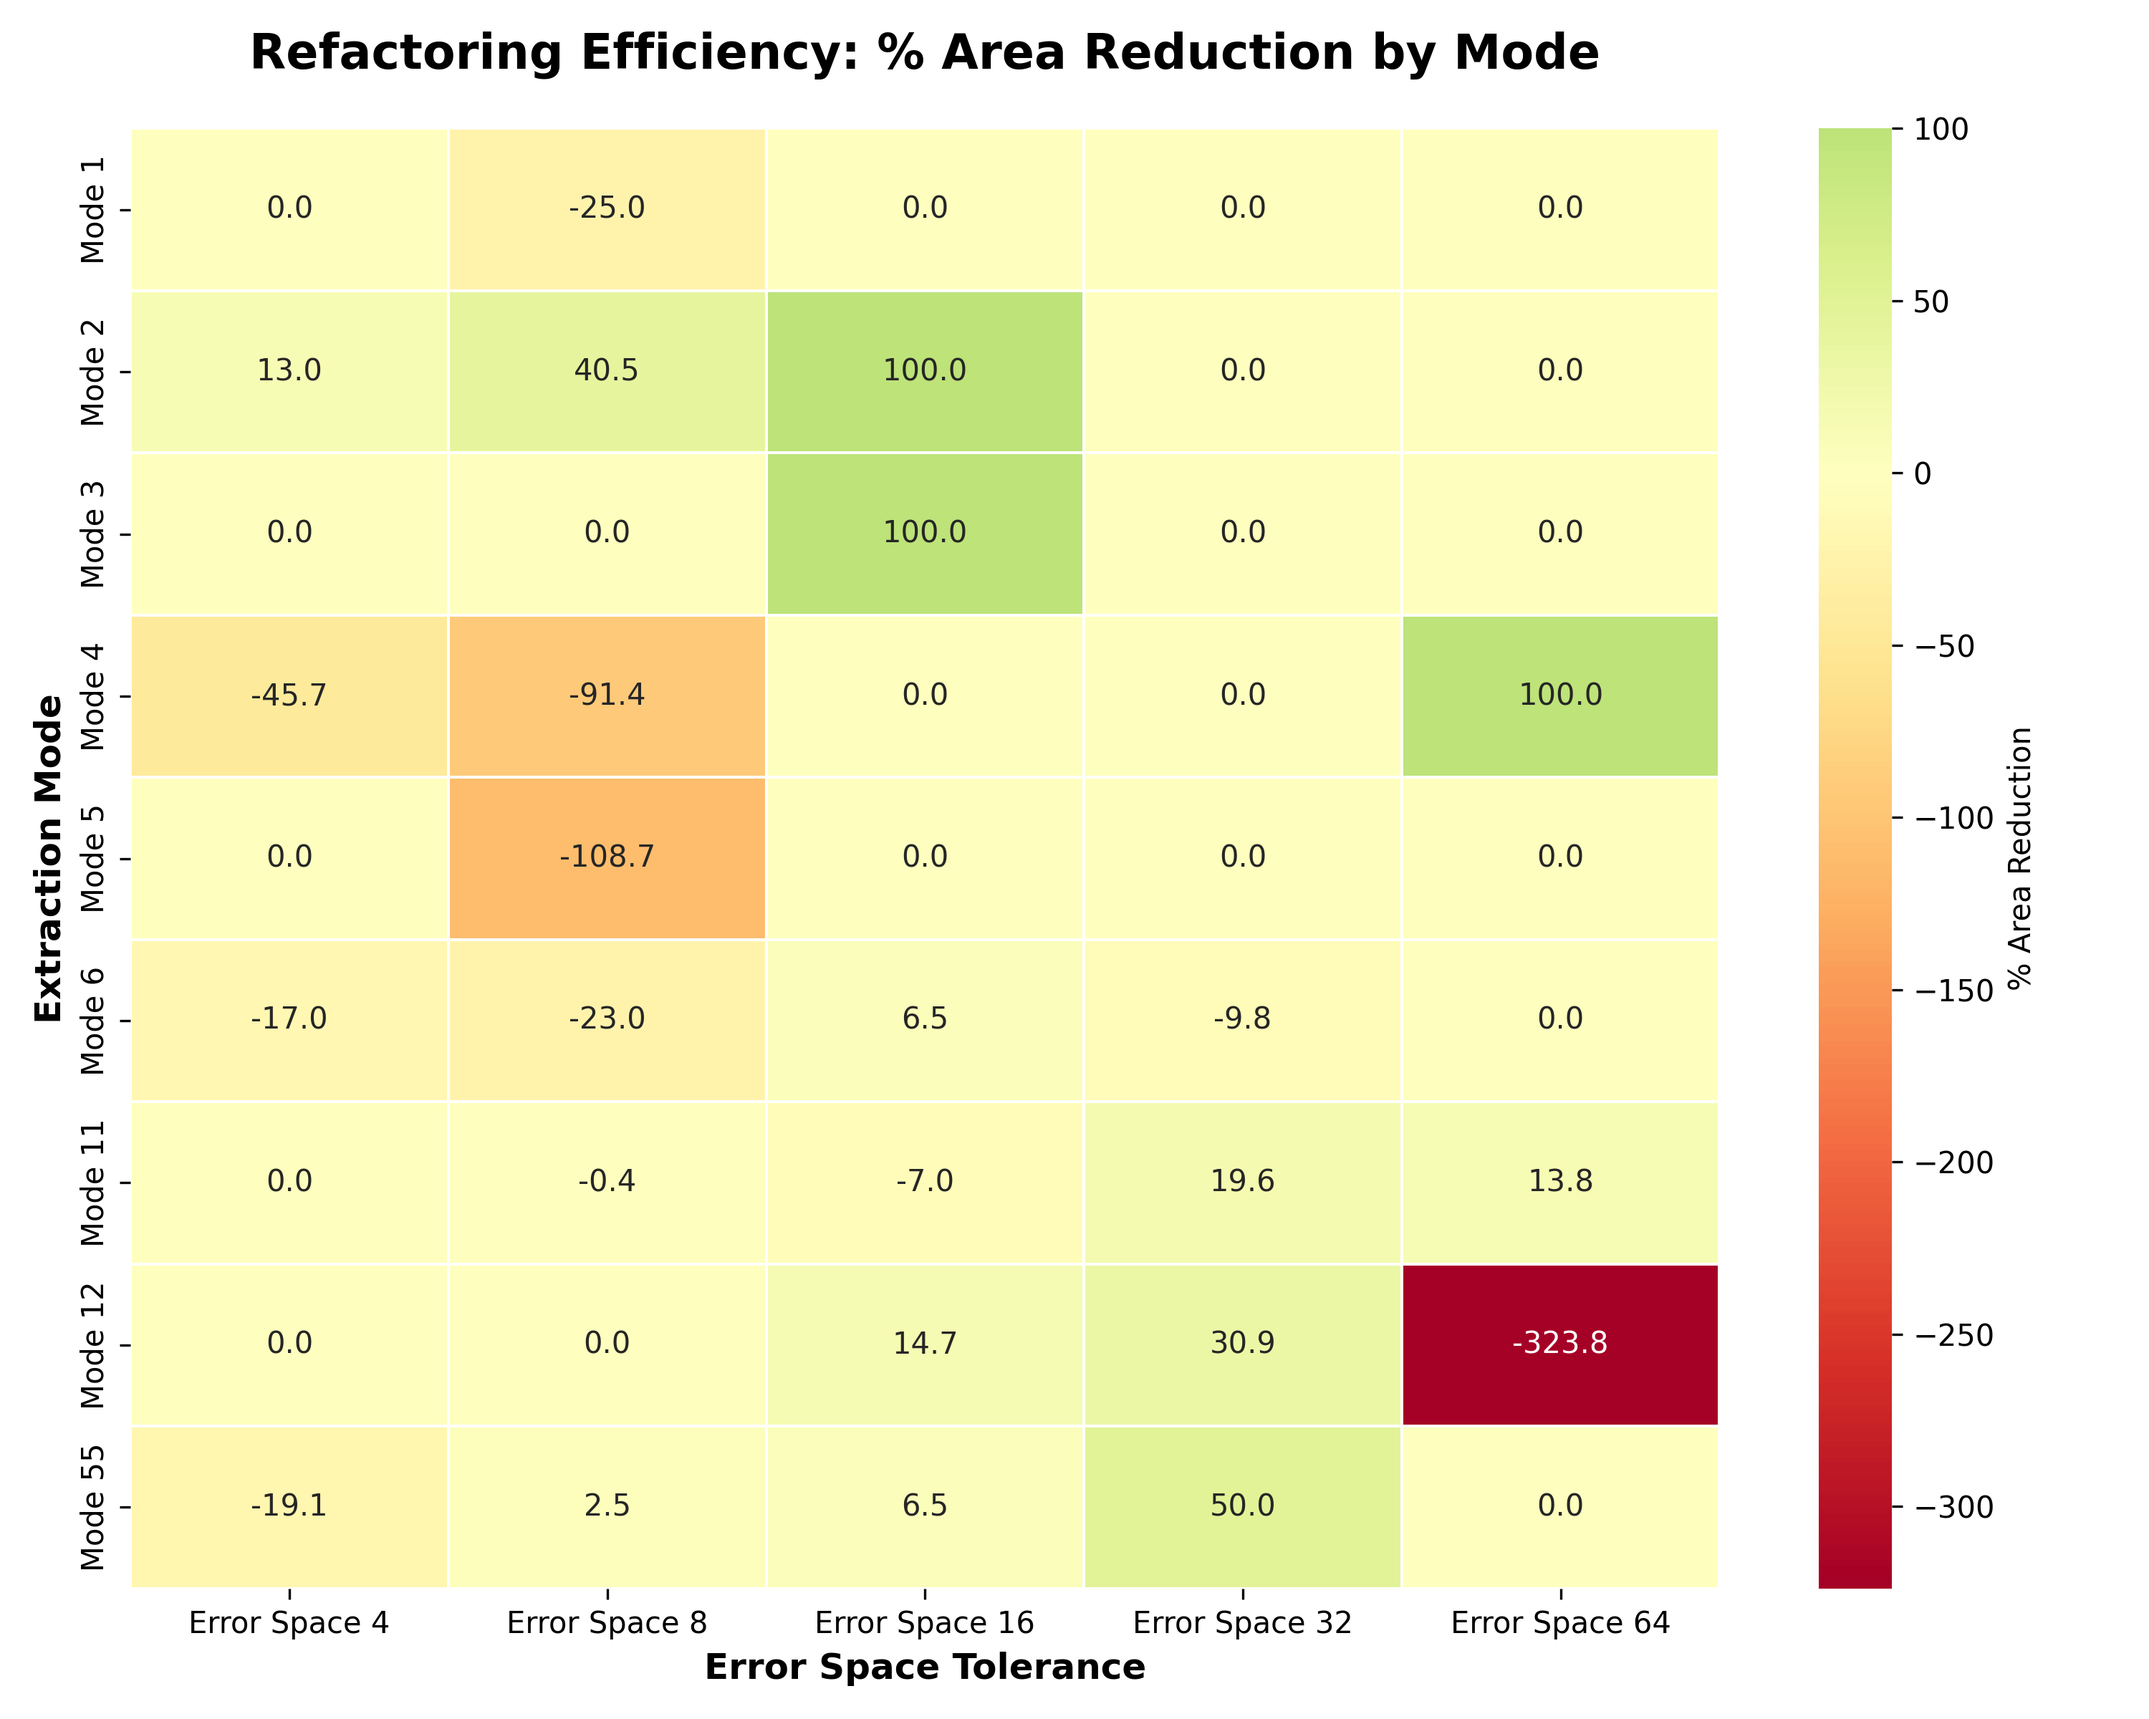
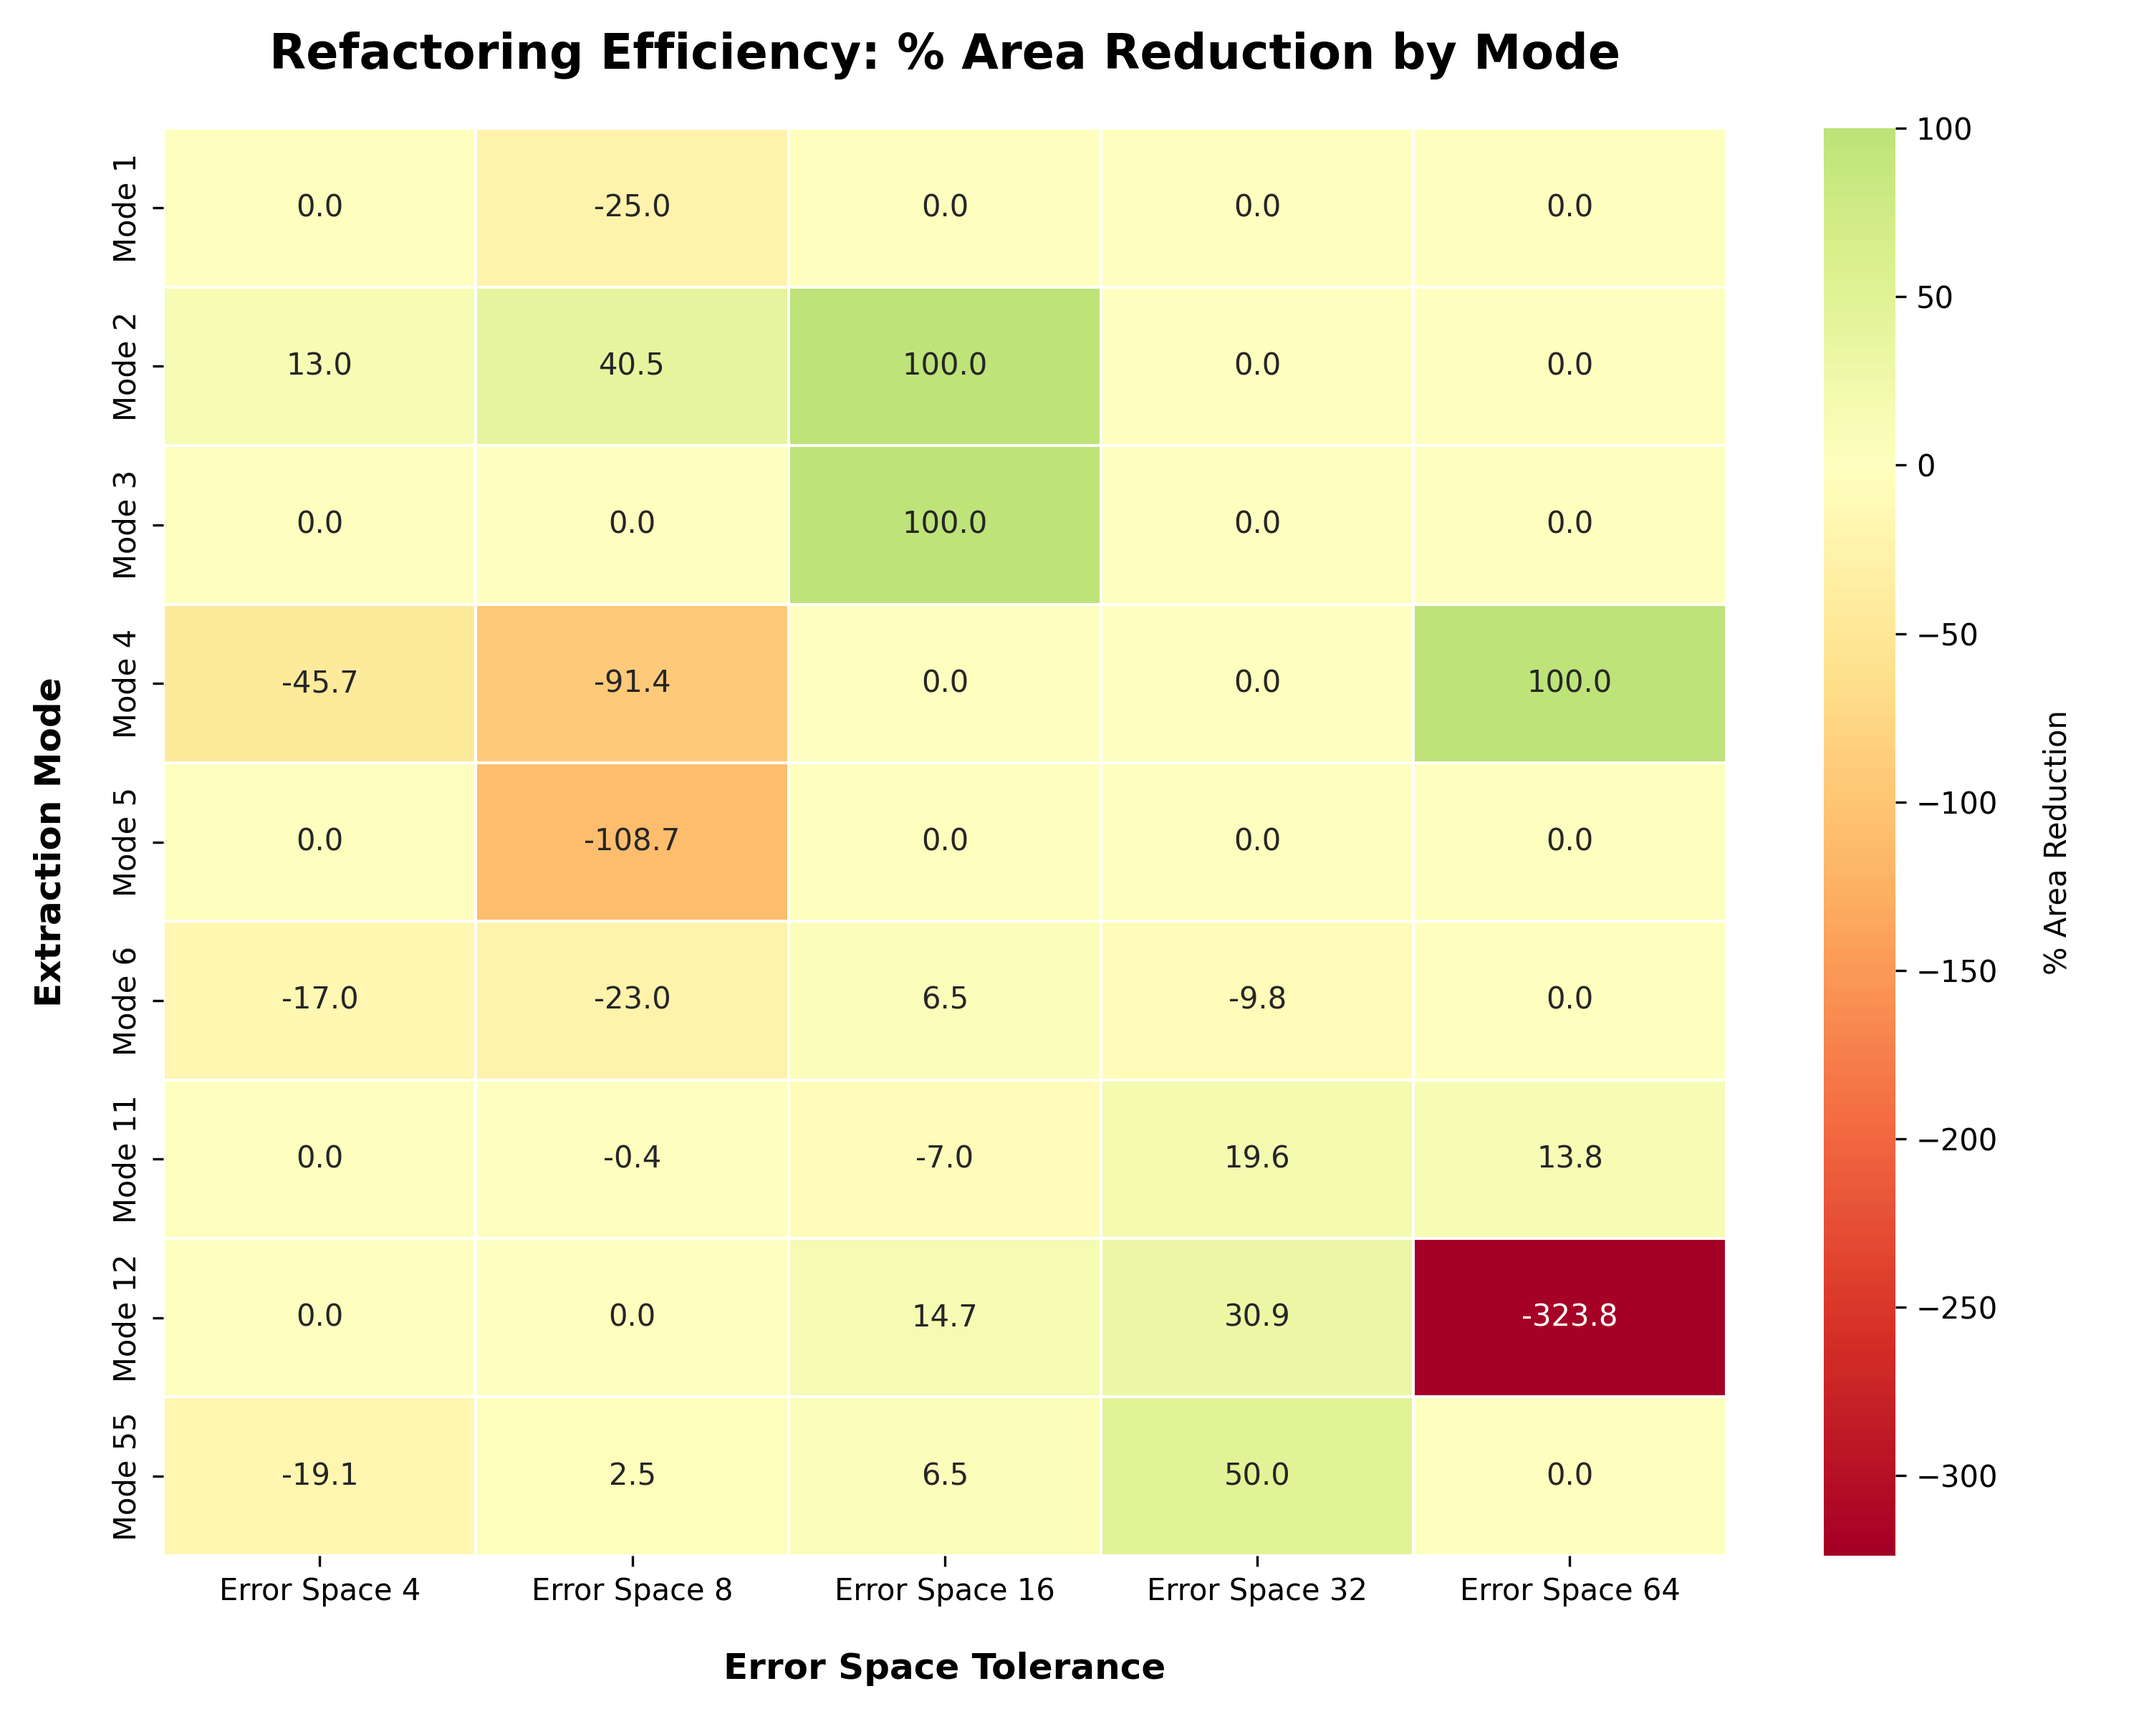
#202: style: add visual padding to heatmap axis and colorbar labels

diff --git a/sxpat/docs/plot_graphs_extraction_mode/plot_efficiency_heatmap.py b/sxpat/docs/plot_graphs_extraction_mode/plot_efficiency_heatmap.py
@@ -76,7 +76,7 @@ for mode, error_spaces in all_modes_data.items():
         pre = metrics['y_pre'][0]
         post = metrics['x_post'][0]
         
-        # Calculate % Reduction (Handling the 0->0 case)
+        # Calculate % Reduction (Handling the 0 -> 0 case)
         pct_red = ((pre - post) / pre * 100) if pre > 0 else 0
         
         rows.append({'Mode': mode, 'Error Space': es, '% Reduction': pct_red})
@@ -95,17 +95,18 @@ pivot = pivot.reindex(index=mode_order, columns=error_space_order)
 plt.figure(figsize=(10, 8))
 
 # Draw the heatmap
-# center=0 ensures that 0% is yellow, positive reductions are green, negative reductions (bloat) are red
+# center=0 ensures that 0% is yellow, positive reductions are green, negative reductions are red
 heatmap = sns.heatmap(pivot, cmap='RdYlGn', center=0, annot=True, fmt=".1f", 
-                      linewidths=.5, cbar_kws={'label': '% Area Reduction'})
+                      linewidths=.5)
+cbar = heatmap.collections[0].colorbar
+cbar.set_label('% Area Reduction', labelpad=15)
 
 # Formatting
 plt.title('Refactoring Efficiency: % Area Reduction by Mode', fontsize=16, fontweight='bold', pad=20)
-plt.xlabel('Error Space Tolerance', fontsize=12, fontweight='bold')
-plt.ylabel('Extraction Mode', fontsize=12, fontweight='bold')
+plt.xlabel('Error Space Tolerance', fontsize=12, fontweight='bold', labelpad=15)
+plt.ylabel('Extraction Mode', fontsize=12, fontweight='bold', labelpad=15)
 plt.tight_layout()
 
-# 3. Robust save logic for SSH execution
 script_dir = os.path.dirname(os.path.abspath(__file__))
 filename = os.path.join(script_dir, "efficiency_heatmap.png")
 plt.savefig(filename, dpi=300)
